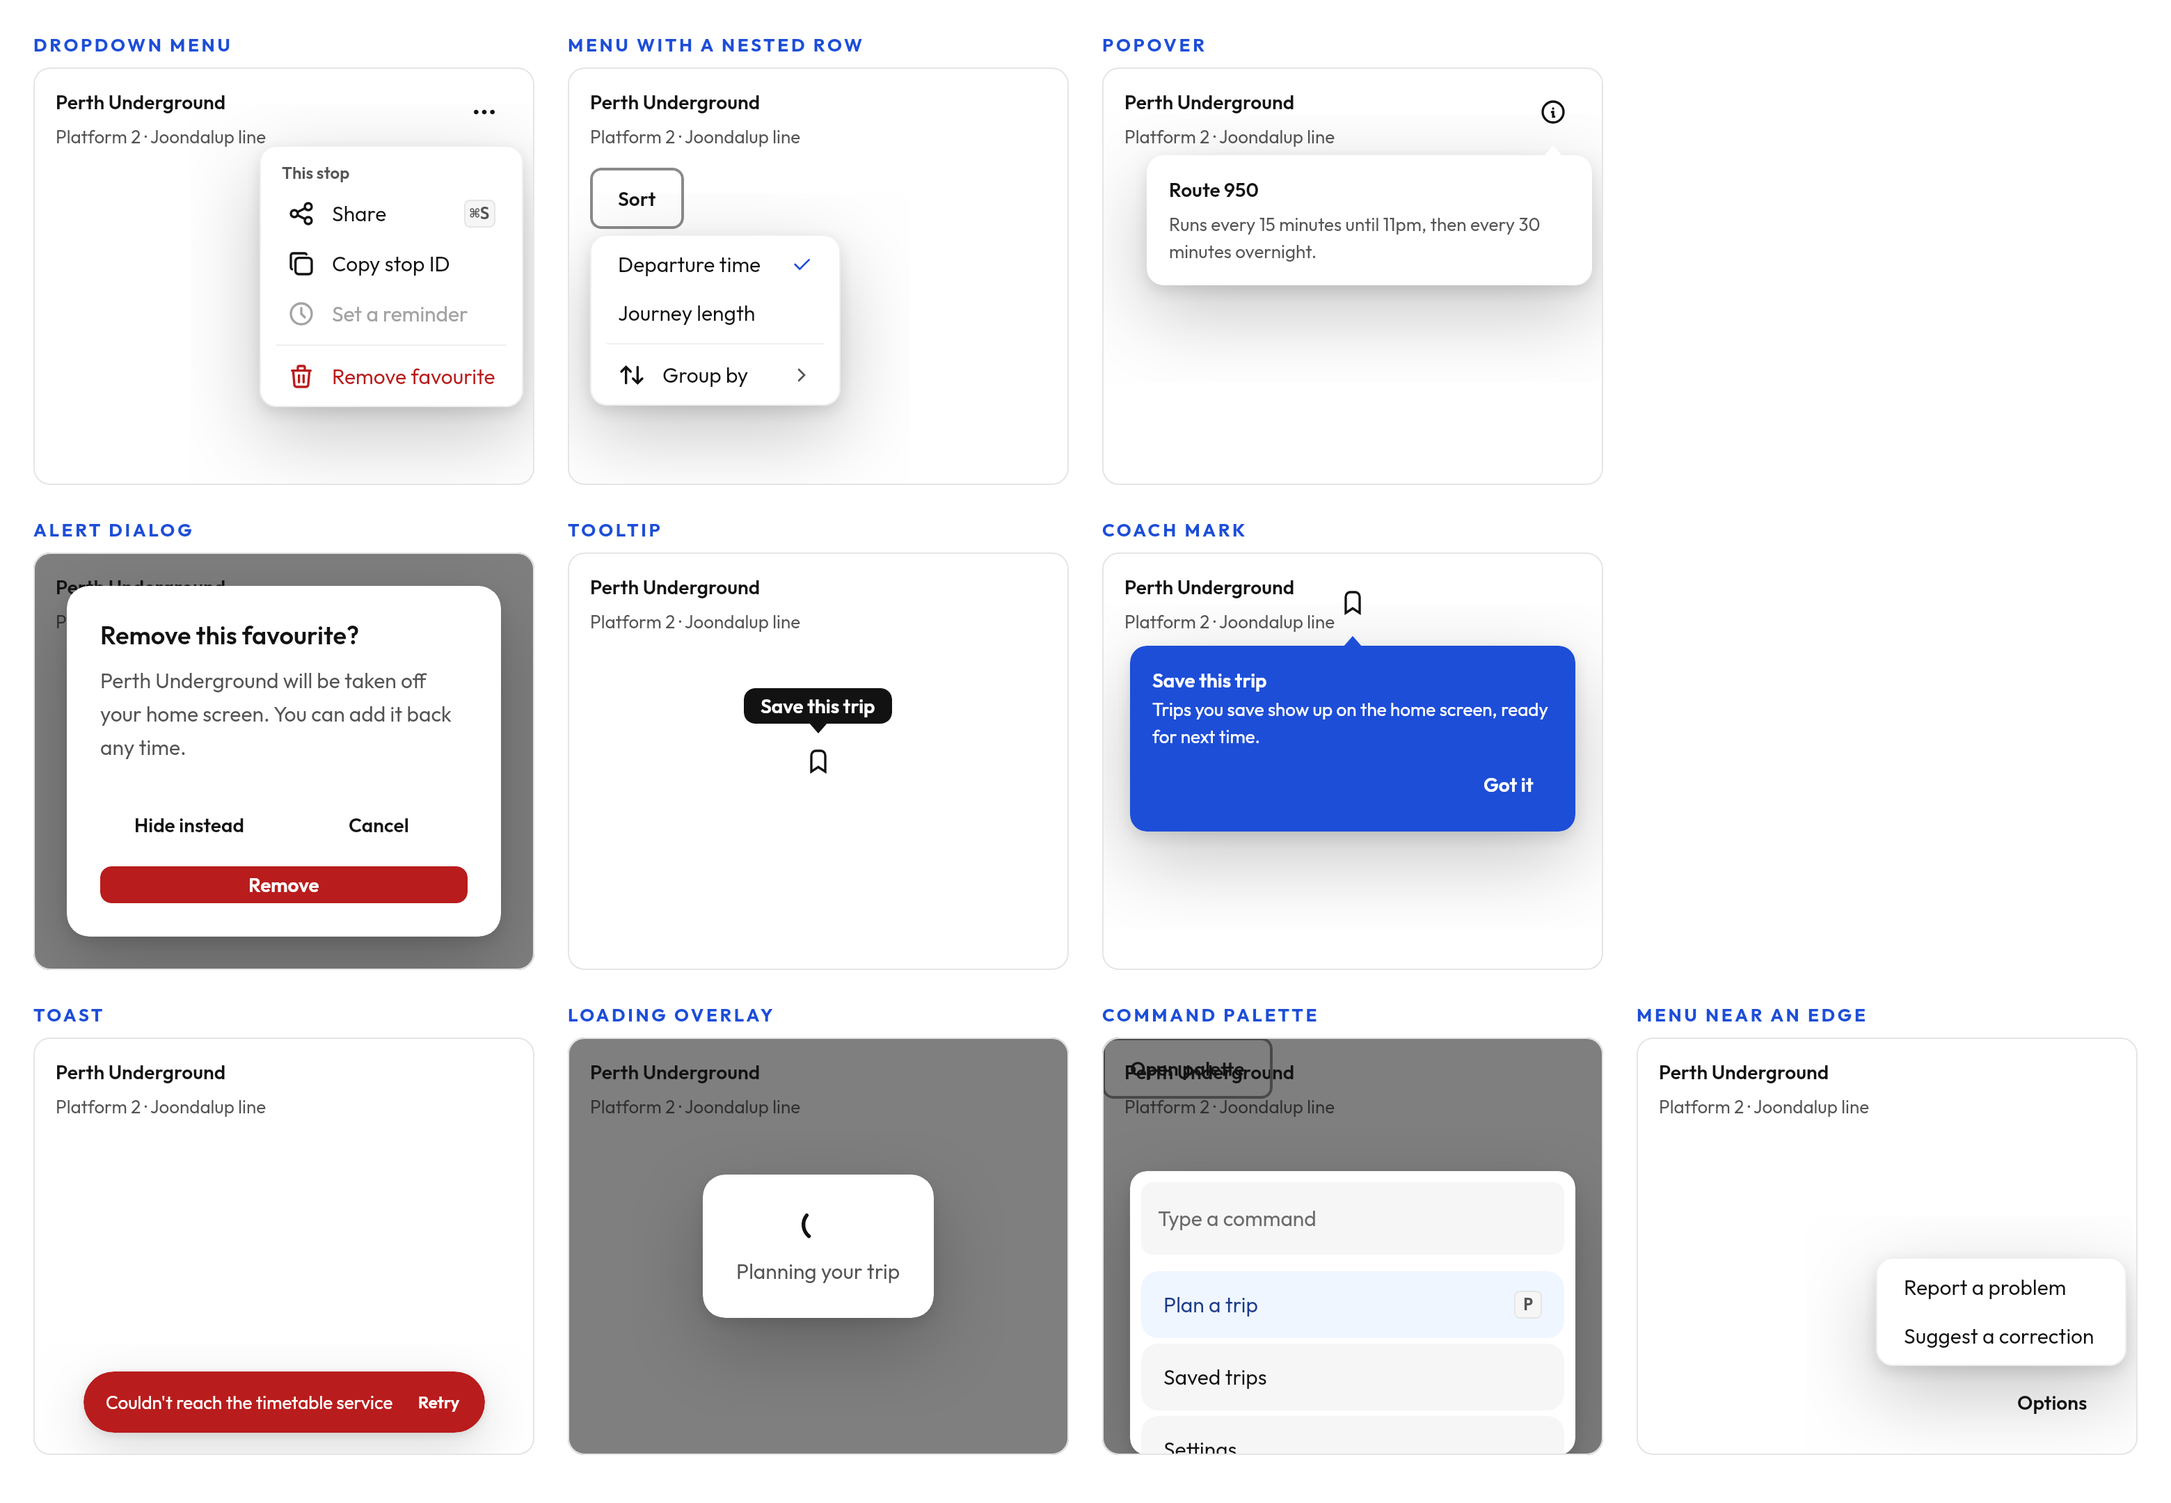
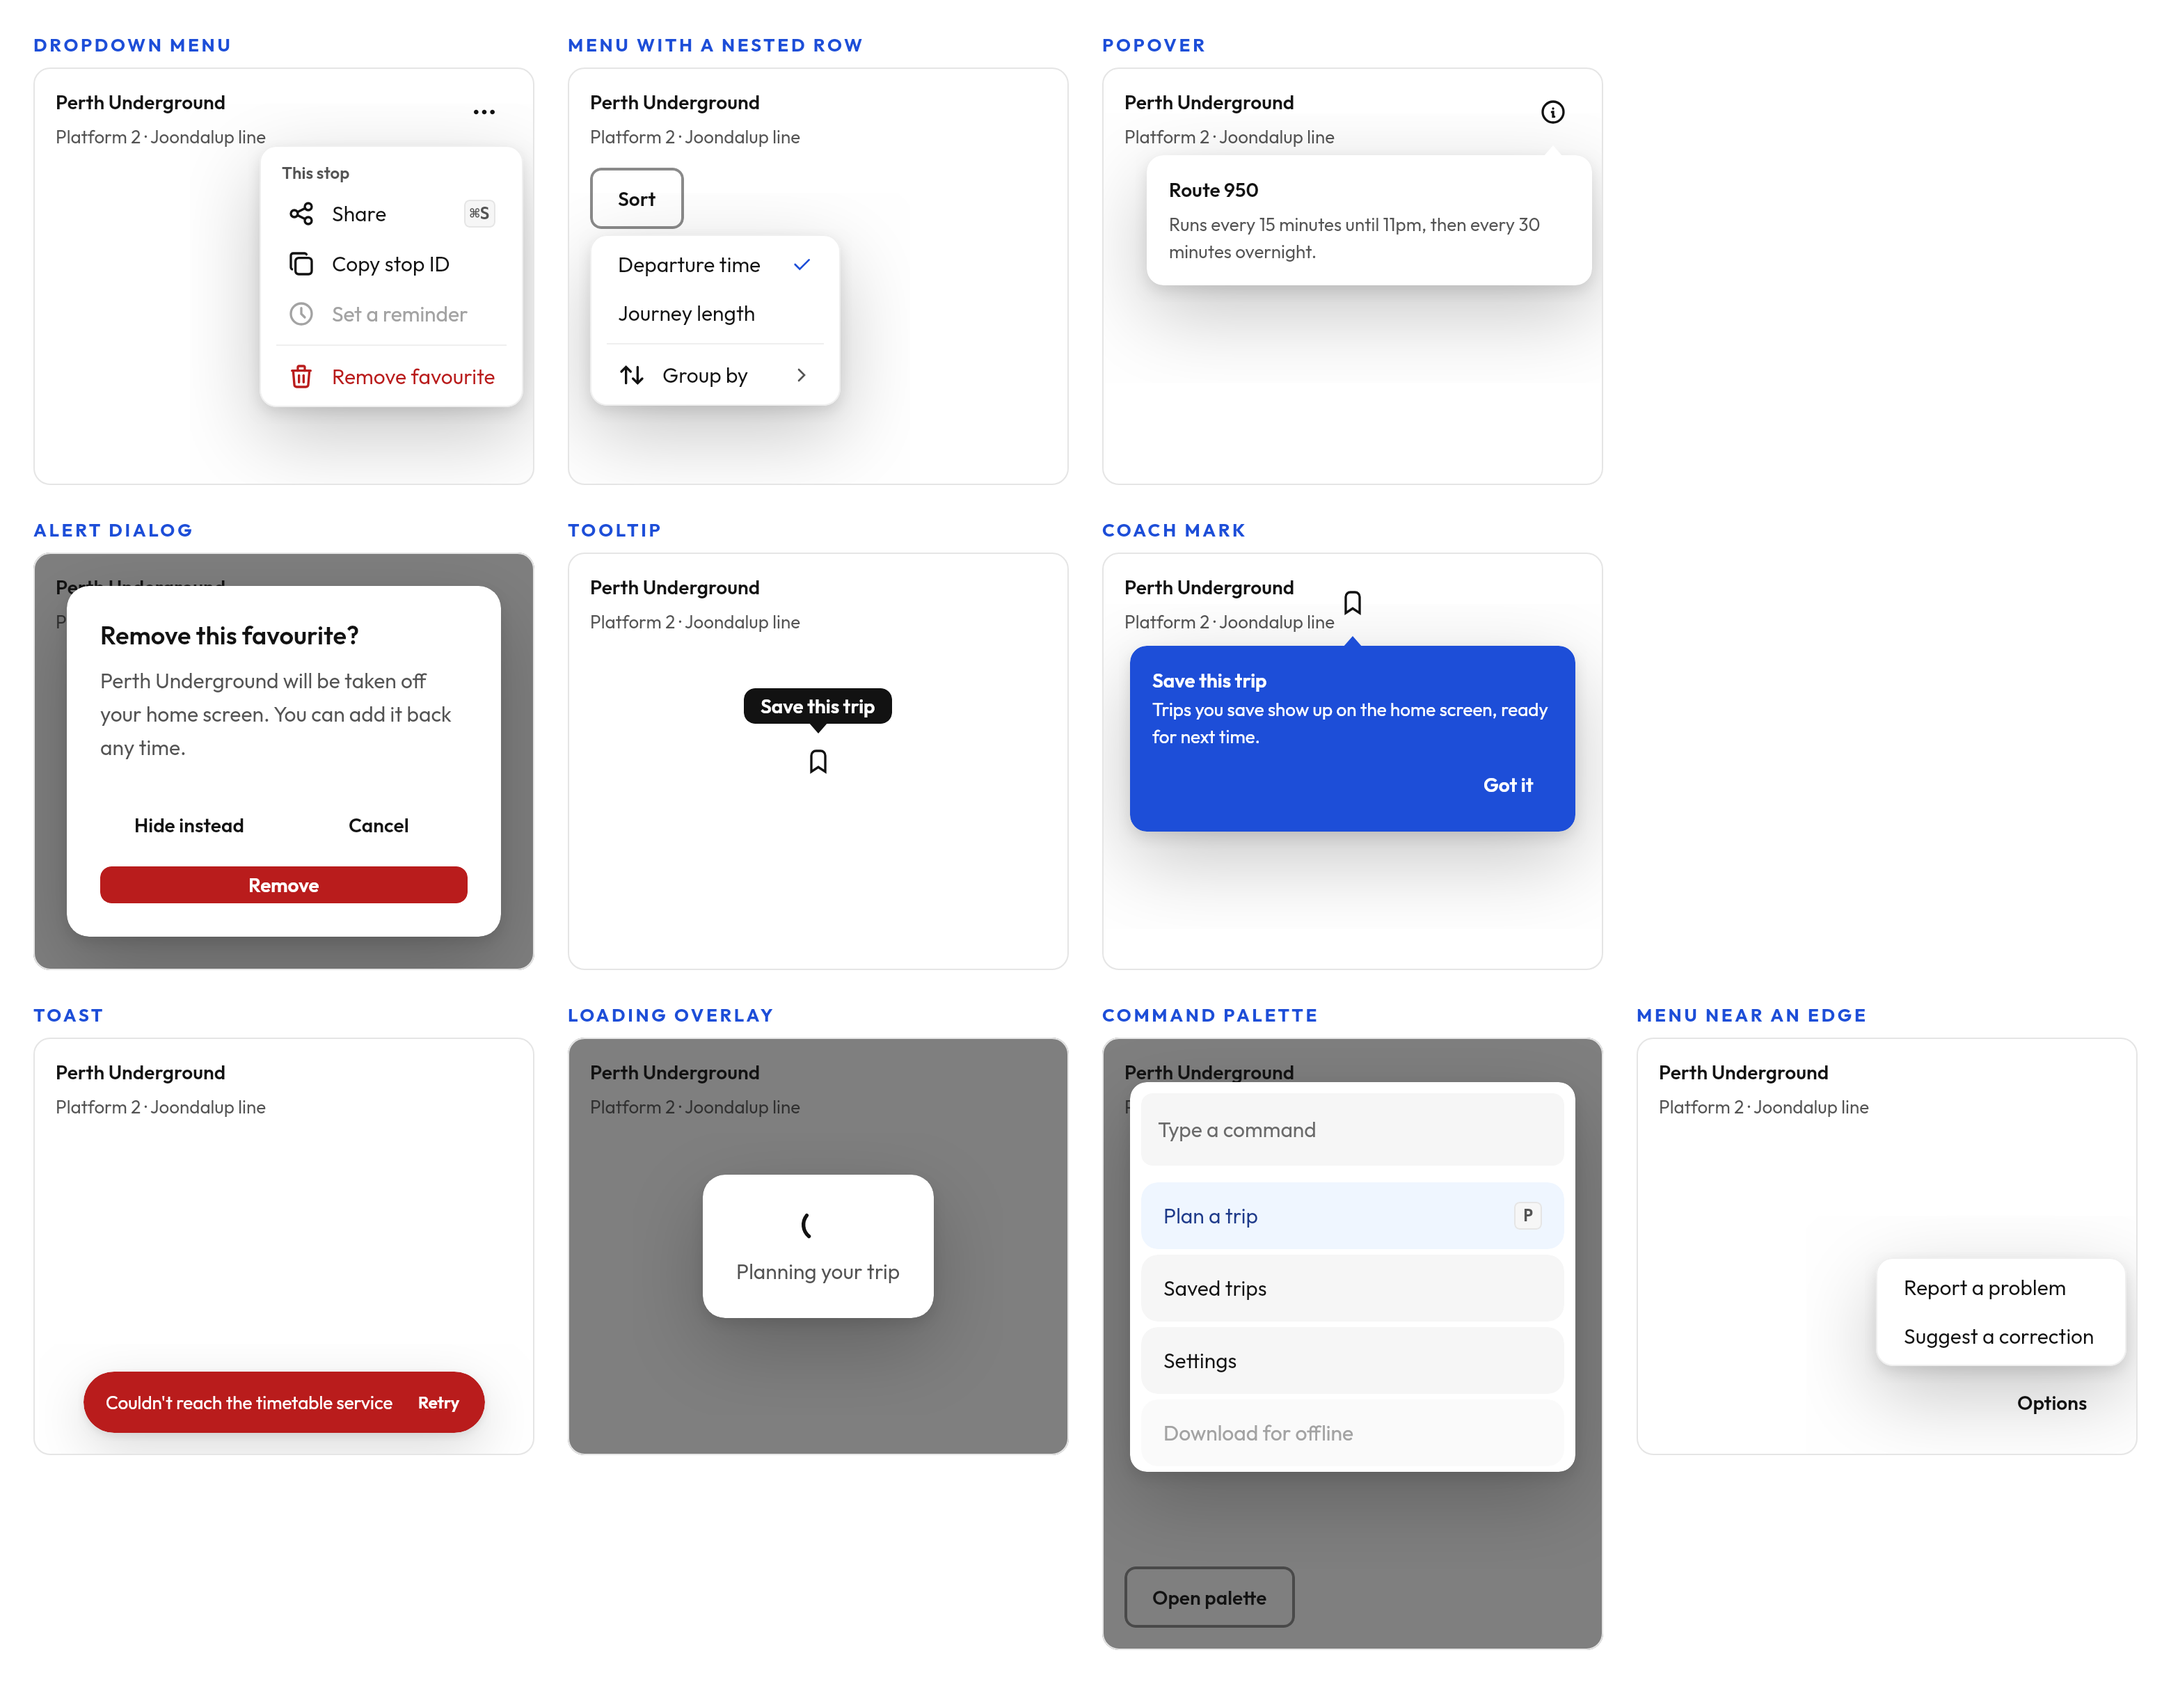
Give the command palette a window to be shown in
Established first, as the plan asked: the component is fine and the gallery was
at fault, twice over.

The trigger button was the only one in the showcase not aligned to a corner, so
it landed on top of the panel's own stand-in text and the two drew over each
other. And the panel is a 300dp card, while a palette is the one overlay in here
that expects a window: 96dp of top inset plus 360dp of results does not fit, so
it ran off the bottom and the gallery showed a component that looked unable to
lay itself out.

`CommandPalette` gains `topInset` alongside `width` and `maxHeight`, which is the
missing third of a set — the showcase had already narrowed the width for exactly
this reason and had no way to reach the other two. The panel gets a height
parameter and this one takes 440dp, and all four commands, the highlight and the
shortcut chip now fit inside it.

Growing the panel overflowed the page, and the overflow guard said so rather than
silently cropping the bottom row: "content measures 3120×2419, canvas is
3120×2160". That guard was added after this exact failure went unnoticed twice.
The canvas is now 2440.

Claude-Session: https://claude.ai/code/session_012oQuMLS7ufDrxJRTykEQFQ

diff --git a/ui-catalog/src/commonMain/kotlin/io/kontour/ui/catalog/OverlayShowcase.kt b/ui-catalog/src/commonMain/kotlin/io/kontour/ui/catalog/OverlayShowcase.kt
@@ -18,6 +18,7 @@ import androidx.compose.runtime.remember
 import androidx.compose.ui.Alignment
 import androidx.compose.ui.Modifier
 import androidx.compose.ui.draw.clip
+import androidx.compose.ui.unit.Dp
 import androidx.compose.ui.unit.dp
 import com.composables.icons.tabler.Tabler
 import com.composables.icons.tabler.outline.ArrowsSort
@@ -261,15 +262,20 @@ fun OverlayShowcase(modifier: Modifier = Modifier) {
                     LoadingOverlay(visible = loading.value, label = "Planning your trip")
                 }
 
-                Panel("Command palette") {
+                Panel("Command palette", height = 440.dp) {
                     // Seeded open so the golden shows the palette, and a
                     // *toggle* rather than a setter — pressing "open" while it
                     // is already open does nothing, which is exactly what
                     // `EverythingRespondsTest` exists to catch. It caught this.
                     val open = seed(true)
+                    // Aligned, like every other trigger in here. Left where it
+                    // fell, it landed on top of the panel's own stand-in text
+                    // and the two drew over each other — which is most of what
+                    // made this panel look broken.
                     Button(
                         onClick = { open.value = !open.value },
                         variant = ButtonVariant.Secondary,
+                        modifier = Modifier.align(Alignment.BottomStart).padding(16.dp),
                     ) { +"Open palette" }
                     CommandPalette(
                         visible = open.value,
@@ -282,9 +288,16 @@ fun OverlayShowcase(modifier: Modifier = Modifier) {
                                 Command("offline", "Download for offline", onRun = {}, enabled = false),
                             )
                         },
-                        // Narrower than the default, which is sized for a real
-                        // window rather than for a 400dp panel in a gallery.
+                        // All three of these, not just the width. The defaults
+                        // are sized for a real window: 96dp of top inset and
+                        // 360dp of results do not fit a 300dp panel, so the
+                        // palette ran off the bottom and the gallery showed a
+                        // component that looked like it could not lay itself
+                        // out. It lays out fine; it was being given a window a
+                        // fifth the size of the one it was drawn for.
                         width = 320.dp,
+                        topInset = 32.dp,
+                        maxHeight = 240.dp,
                     )
                 }
 
@@ -315,10 +328,18 @@ fun OverlayShowcase(modifier: Modifier = Modifier) {
     }
 }
 
-/** A fixed-size screen stand-in with its own overlay host. */
+/**
+ * A fixed-size screen stand-in with its own overlay host.
+ *
+ * @param height Taller for the command palette, which is the one component in
+ *   here that wants a window rather than a card. Squeezed into 300dp it ran off
+ *   the bottom, and a gallery that clips the thing it is showing is worse than
+ *   no gallery.
+ */
 @Composable
 private fun Panel(
     title: String,
+    height: Dp = 300.dp,
     content: @Composable BoxScope.() -> Unit,
 ) {
     Column(
@@ -333,7 +354,7 @@ private fun Panel(
         Surface(
             modifier = Modifier
                 .fillMaxWidth()
-                .height(300.dp)
+                .height(height)
                 .border(
                     width = Theme.sizing.borderWidth,
                     color = Theme.colors.outline,

diff --git a/ui/src/commonMain/kotlin/io/kontour/ui/overlay/CommandPalette.kt b/ui/src/commonMain/kotlin/io/kontour/ui/overlay/CommandPalette.kt
@@ -113,6 +113,16 @@ fun CommandPalette(
     emptyLabel: String = Theme.strings.noMatchingCommands,
     width: Dp = CommandPaletteDefaults.Width,
     maxHeight: Dp = CommandPaletteDefaults.MaxHeight,
+    /**
+     * How far below the top of the window it sits.
+     *
+     * A companion to [width] and [maxHeight], and here for the same reason they
+     * are: the defaults are sized for a real window, and a host that is not one
+     * needs all three or none of them. Without it the catalog's 300dp panel
+     * spent a third of its height on the inset and clipped the palette at the
+     * bottom, which read as the component being broken.
+     */
+    topInset: Dp = CommandPaletteDefaults.TopInset,
     filter: (String, Command) -> Boolean = ::commandMatches,
 ) {
     val host = LocalOverlayHost.current
@@ -120,6 +130,7 @@ fun CommandPalette(
     val latestCommands by rememberUpdatedState(commands)
     val latestFilter by rememberUpdatedState(filter)
     val latestDismiss by rememberUpdatedState(onDismissRequest)
+    val latestTopInset by rememberUpdatedState(topInset)
 
     LaunchedEffect(visible, key) {
         if (visible) {
@@ -147,9 +158,7 @@ fun CommandPalette(
                             contentAlignment = Alignment.TopCenter,
                         ) {
                             PaletteBody(
-                                modifier = latestModifier.padding(
-                                    top = CommandPaletteDefaults.TopInset,
-                                ),
+                                modifier = latestModifier.padding(top = latestTopInset),
                                 query = query,
                                 commands = latestCommands,
                                 filter = latestFilter,

diff --git a/ui-catalog/src/jvmTest/kotlin/io/kontour/ui/catalog/ThemeShowcaseScreenshotTest.kt b/ui-catalog/src/jvmTest/kotlin/io/kontour/ui/catalog/ThemeShowcaseScreenshotTest.kt
@@ -140,8 +140,11 @@ class ThemeShowcaseScreenshotTest {
                 // Four panels per row. The panels flow, and a width that
                 // leaves slack for a fifth to start without room to finish
                 // draws it as a column of single letters.
+                // Taller since the command palette's panel grew: the palette is
+                // the one overlay in here that wants a window rather than a
+                // card, and a 300dp stand-in clipped it.
                 width = 3120,
-                height = 2160,
+                height = 2440,
                 // Overlays need more than the usual handful. Each one has to be
                 // laid out before its anchor is known, pushed into the host on
                 // the recomposition after that, and then animated in — three

diff --git a/docs/using/overlays.md b/docs/using/overlays.md
@@ -408,3 +408,8 @@ grows downward as the user types and a centred palette jumps up the screen on
 every keystroke. Its search field has no debounce: the list is already in
 memory, and a quarter-second lag between the key and the result is the whole
 difference between instant and broken.
+
+`width`, `maxHeight` and `topInset` are sized for a window — 560dp wide, 360dp
+of results, 96dp down from the top. In a host that is not a window they go
+together: the catalog's panel sets all three, and the version that set only the
+width spent a third of its height on the inset and ran off the bottom.
